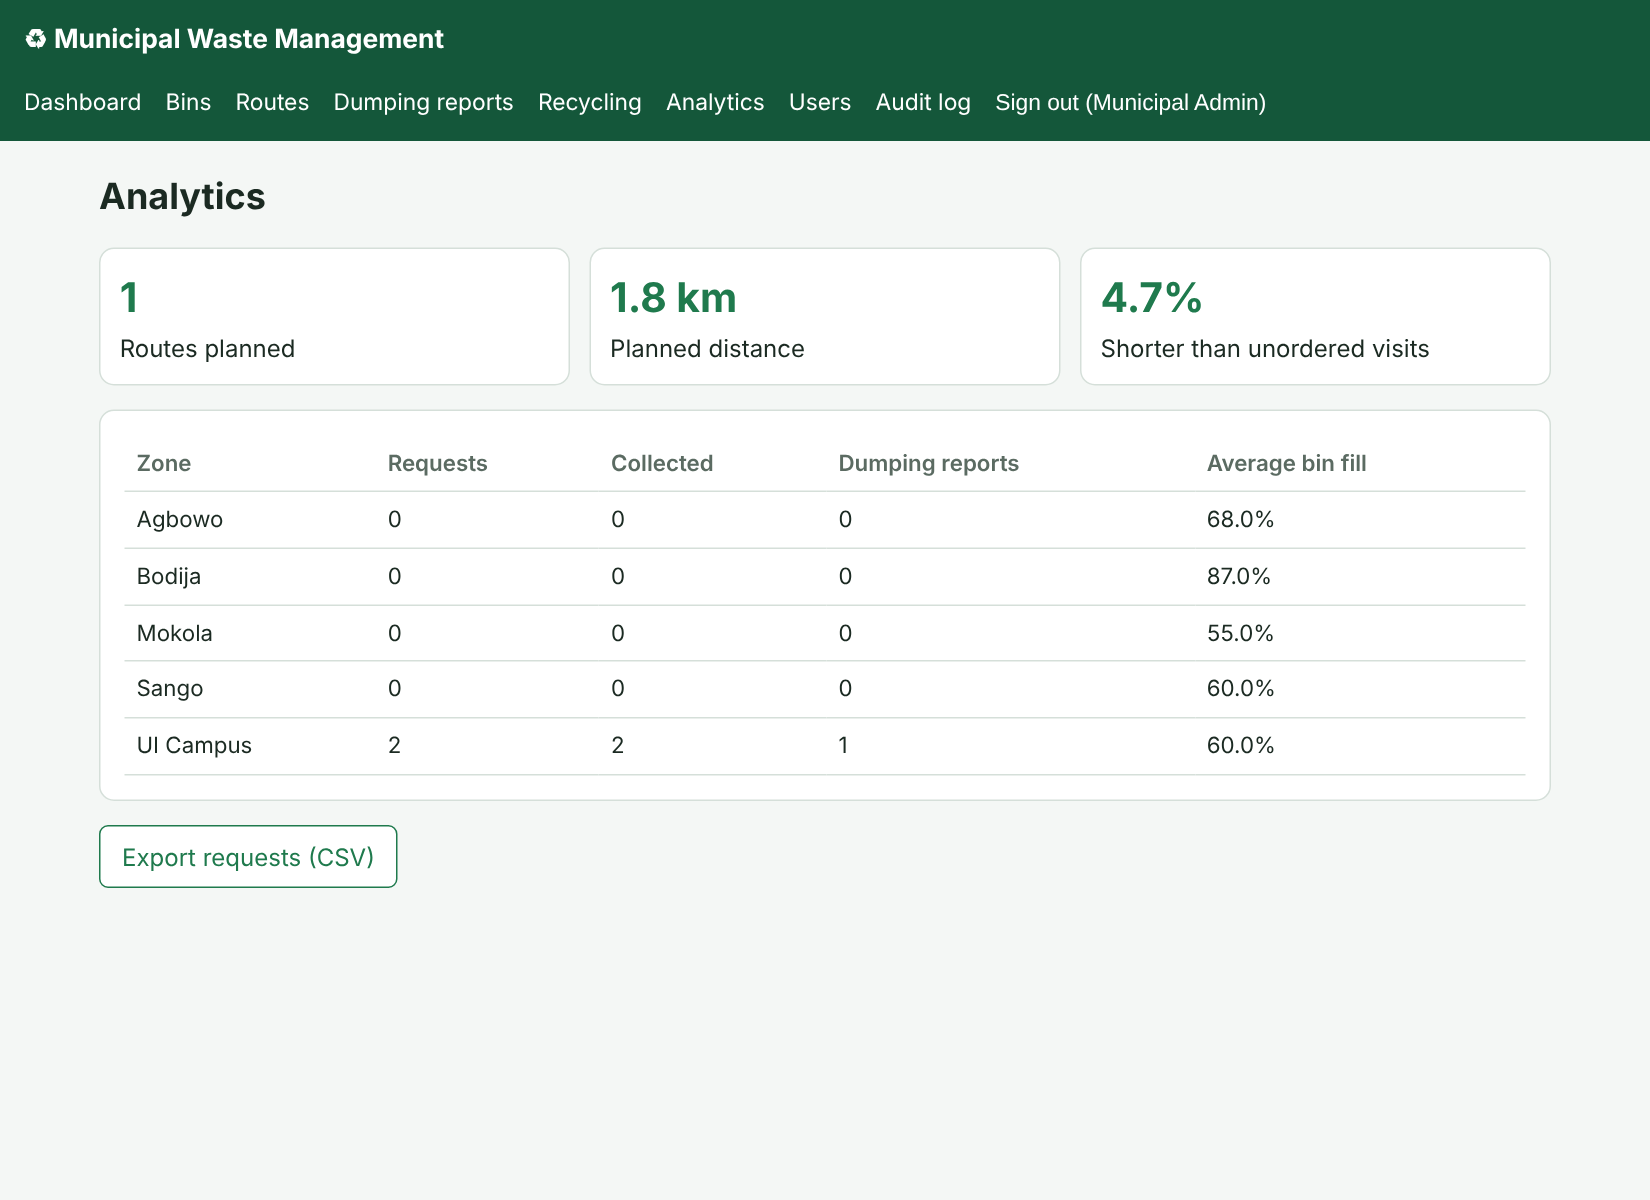
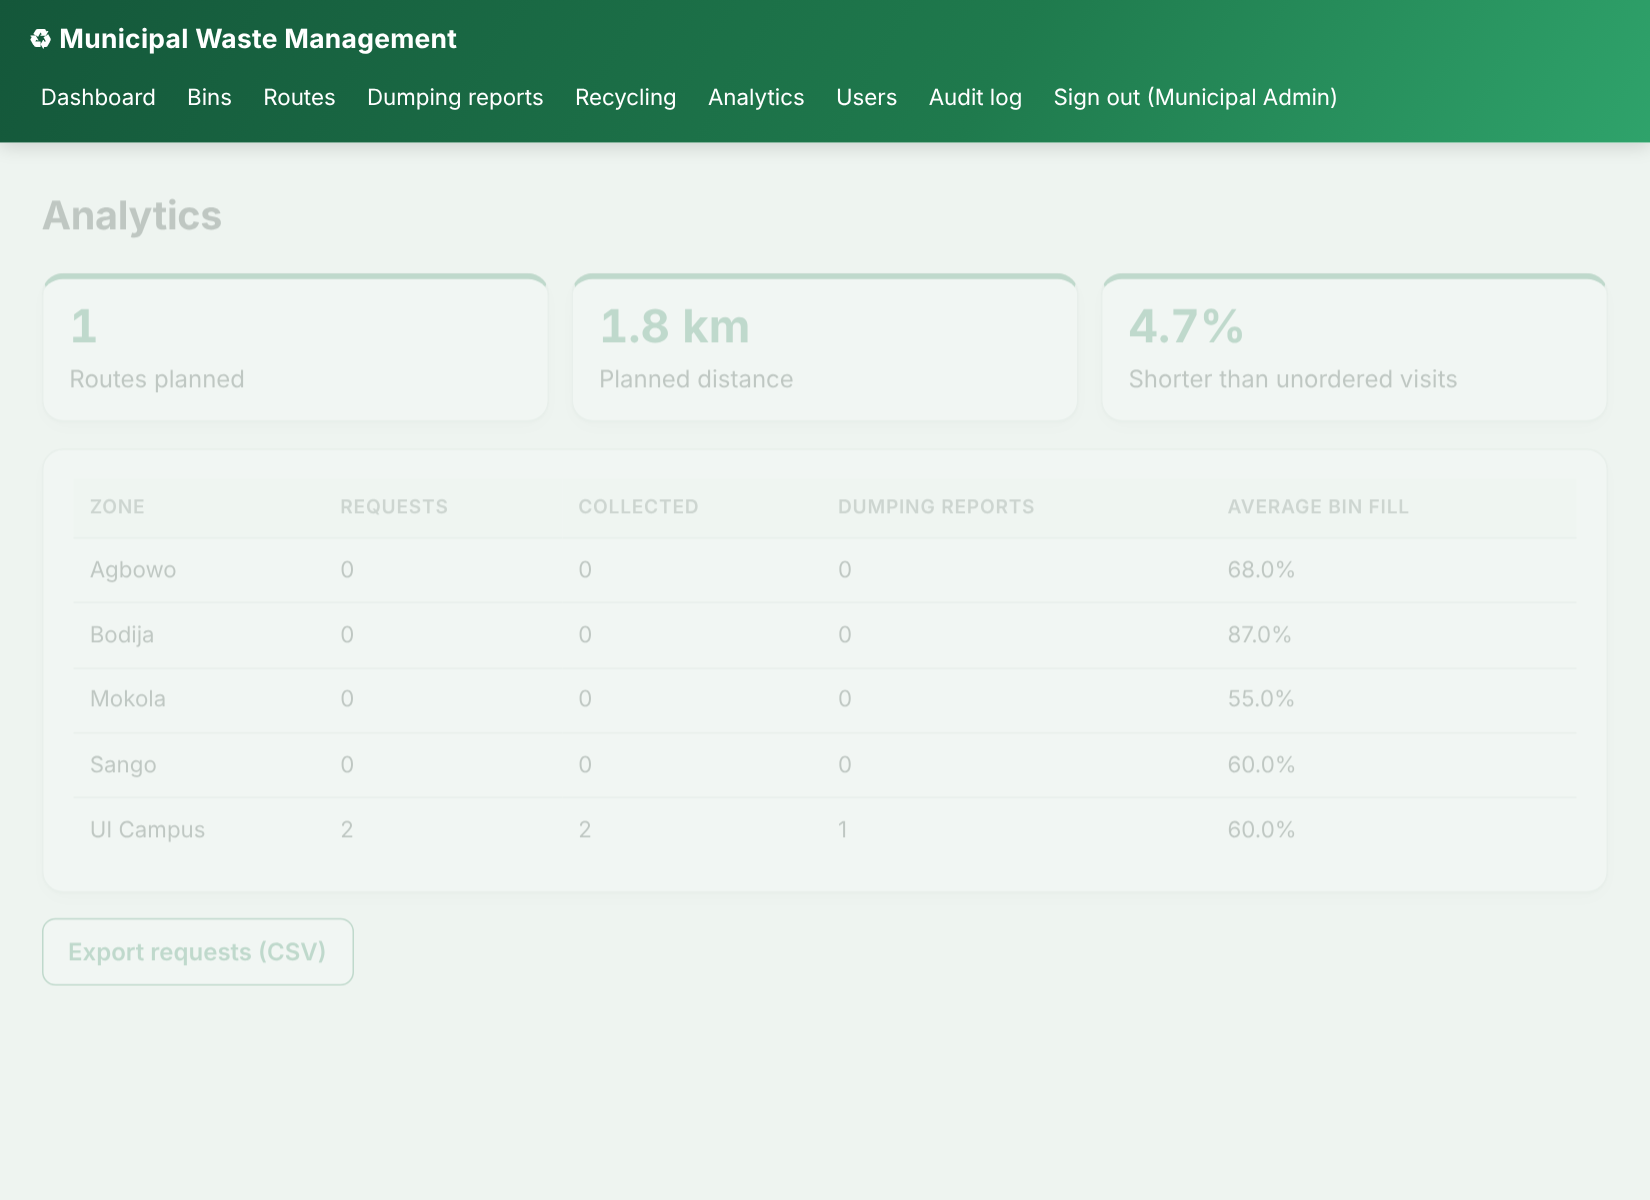
Polish interface: gradient header, card and stat styling, status badges, home hero
Styling only; behaviour and the 35 tests are unchanged.

Claude-Session: https://claude.ai/code/session_01EThMTwLcSrsDZhrohtQ9Sq

diff --git a/wms/static/style.css b/wms/static/style.css
@@ -1,19 +1,53 @@
-:root{--g:#1f7a4d;--gd:#14573a;--bg:#f4f7f5;--tx:#1b2a22;--mu:#5b6b62;--bd:#d5dfd9;--rd:#b3261e;--am:#b26a00}
-*{box-sizing:border-box}body{margin:0;font:16px/1.5 system-ui,Segoe UI,Arial,sans-serif;background:var(--bg);color:var(--tx)}
-header{background:var(--gd);color:#fff;padding:.7rem 1rem;display:flex;flex-wrap:wrap;gap:.6rem 1.2rem;align-items:center}
-header a,header button{color:#fff;text-decoration:none;font-size:.95rem;background:none;border:0;cursor:pointer;padding:.2rem 0}
-header .brand{font-weight:700;font-size:1.1rem;margin-right:auto}header nav{display:flex;flex-wrap:wrap;gap:.2rem 1rem}
-main{max-width:1000px;margin:1.2rem auto;padding:0 1rem}h1{font-size:1.5rem;margin:.2rem 0 1rem}h2{font-size:1.15rem;margin:1.4rem 0 .6rem}
-.card{background:#fff;border:1px solid var(--bd);border-radius:10px;padding:1rem;margin-bottom:1rem;overflow-x:auto}
-.grid{display:grid;grid-template-columns:repeat(auto-fit,minmax(150px,1fr));gap:.8rem;margin-bottom:1rem}
-.stat{background:#fff;border:1px solid var(--bd);border-radius:10px;padding:.8rem}.stat b{display:block;font-size:1.7rem;color:var(--g)}.stat.warn b{color:var(--rd)}
-table{width:100%;border-collapse:collapse;font-size:.93rem}th,td{padding:.45rem .5rem;border-bottom:1px solid var(--bd);text-align:left;vertical-align:middle}th{color:var(--mu);font-weight:600}
-label{display:block;font-weight:600;margin:.6rem 0 .2rem;font-size:.92rem}input,select,textarea{width:100%;padding:.5rem;border:1px solid #aab8b0;border-radius:6px;font:inherit}
-button.btn,.btn{background:var(--g);color:#fff;border:0;border-radius:6px;padding:.5rem .9rem;cursor:pointer;font:inherit;text-decoration:none;display:inline-block}
-.btn.sec{background:#fff;color:var(--g);border:1px solid var(--g)}.btn.red{background:var(--rd)}.btn.sm{padding:.25rem .6rem;font-size:.85rem}
-.flash{padding:.6rem .8rem;border-radius:6px;margin-bottom:.8rem}.flash.ok{background:#dff3e6;color:#14573a}.flash.error{background:#fde7e5;color:var(--rd)}
-.badge{display:inline-block;padding:.1rem .5rem;border-radius:999px;font-size:.78rem;background:#e6efe9;color:var(--gd)}
-.badge.pending,.badge.open,.badge.planned{background:#fff1d6;color:var(--am)}.badge.cancelled{background:#eee;color:#666}.badge.resolved,.badge.collected,.badge.completed{background:#dff3e6;color:var(--gd)}
-meter{width:100%;height:14px}form.inline{display:inline-flex;gap:.3rem;align-items:center}form.inline input{width:90px}
-.two{display:grid;grid-template-columns:1fr 1fr;gap:1rem}@media(max-width:700px){.two{grid-template-columns:1fr}header{flex-direction:column;align-items:flex-start}}
-.muted{color:var(--mu)}.narrow{max-width:420px;margin:0 auto}
+:root{--g:#1f7a4d;--gd:#14573a;--ga:#2fa36b;--bg:#eef4f0;--tx:#1b2a22;--mu:#5b6b62;--bd:#d5dfd9;--rd:#b3261e;--am:#b26a00;--sh:0 1px 2px rgba(20,60,40,.06),0 4px 14px rgba(20,60,40,.07)}
+*{box-sizing:border-box}
+body{margin:0;font:16px/1.55 system-ui,"Segoe UI",Roboto,Arial,sans-serif;background:var(--bg);color:var(--tx);-webkit-font-smoothing:antialiased}
+header{background:linear-gradient(120deg,var(--gd),var(--g) 60%,var(--ga));color:#fff;padding:.8rem 1.2rem;display:flex;flex-wrap:wrap;gap:.6rem 1.2rem;align-items:center;box-shadow:0 2px 12px rgba(0,0,0,.15);position:sticky;top:0;z-index:10}
+header a,header button{color:#fff;text-decoration:none;font-size:.93rem;background:none;border:0;cursor:pointer;padding:.3rem .5rem;border-radius:6px;font:inherit;font-size:.93rem;transition:background .15s}
+header a:hover,header button:hover{background:rgba(255,255,255,.14)}
+header .brand{font-weight:700;font-size:1.1rem;margin-right:auto;padding:0;letter-spacing:.2px}
+header nav{display:flex;flex-wrap:wrap;gap:.2rem .3rem;align-items:center}
+header nav form{margin:0}
+main{max-width:1080px;margin:1.6rem auto;padding:0 1.1rem;animation:fade .3s ease}
+@keyframes fade{from{opacity:0;transform:translateY(4px)}to{opacity:1;transform:none}}
+h1{font-size:1.65rem;margin:.2rem 0 1.1rem;letter-spacing:-.2px}
+h2{font-size:1.1rem;margin:1.5rem 0 .7rem;color:var(--gd)}
+.card{background:#fff;border:1px solid var(--bd);border-radius:14px;padding:1.2rem 1.3rem;margin-bottom:1.1rem;box-shadow:var(--sh);overflow-x:auto;transition:transform .15s,box-shadow .15s}
+.card:hover{box-shadow:0 2px 6px rgba(20,60,40,.08),0 10px 24px rgba(20,60,40,.09)}
+.grid{display:grid;grid-template-columns:repeat(auto-fit,minmax(170px,1fr));gap:.9rem;margin-bottom:1.1rem}
+.stat{background:#fff;border:1px solid var(--bd);border-radius:14px;padding:1rem 1.1rem;box-shadow:var(--sh);border-top:4px solid var(--g)}
+.stat b{display:block;font-size:1.9rem;color:var(--g);line-height:1.1;margin-bottom:.25rem;font-variant-numeric:tabular-nums}
+.stat.warn{border-top-color:var(--rd)}.stat.warn b{color:var(--rd)}
+table{width:100%;border-collapse:separate;border-spacing:0;font-size:.93rem}
+th,td{padding:.6rem .65rem;border-bottom:1px solid var(--bd);text-align:left;vertical-align:middle}
+th{color:var(--mu);font-weight:600;font-size:.8rem;text-transform:uppercase;letter-spacing:.5px;background:#f6faf7}
+tr:last-child td{border-bottom:0}
+tbody tr:hover td,table tr:hover td{background:#f7fbf8}
+label{display:block;font-weight:600;margin:.8rem 0 .3rem;font-size:.9rem;color:#33463c}
+input,select,textarea{width:100%;padding:.55rem .7rem;border:1px solid #b5c4bb;border-radius:9px;font:inherit;background:#fff;transition:border-color .15s,box-shadow .15s}
+input:focus,select:focus,textarea:focus{outline:none;border-color:var(--g);box-shadow:0 0 0 3px rgba(31,122,77,.18)}
+button.btn,.btn{background:linear-gradient(180deg,var(--ga),var(--g));color:#fff;border:0;border-radius:9px;padding:.55rem 1.05rem;cursor:pointer;font:inherit;font-weight:600;text-decoration:none;display:inline-block;box-shadow:0 1px 2px rgba(0,0,0,.12);transition:transform .08s,filter .15s}
+.btn:hover{filter:brightness(1.06)}.btn:active{transform:translateY(1px)}
+.btn.sec{background:#fff;color:var(--g);border:1px solid var(--g);box-shadow:none}.btn.sec:hover{background:#f0f8f3}
+.btn.red{background:linear-gradient(180deg,#cc3a31,var(--rd))}
+.btn.sm{padding:.3rem .65rem;font-size:.83rem;border-radius:7px}
+.flash{padding:.7rem .95rem;border-radius:10px;margin-bottom:.9rem;font-weight:500;border-left:4px solid;box-shadow:var(--sh)}
+.flash.ok{background:#e9f7ef;color:#14573a;border-color:var(--g)}
+.flash.error{background:#fdecea;color:var(--rd);border-color:var(--rd)}
+.badge{display:inline-flex;align-items:center;gap:.3rem;padding:.2rem .65rem;border-radius:999px;font-size:.76rem;font-weight:600;background:#e6efe9;color:var(--gd);text-transform:capitalize;white-space:nowrap}
+.badge::before{content:"";width:6px;height:6px;border-radius:50%;background:currentColor;opacity:.7}
+.badge.pending,.badge.open,.badge.planned{background:#fff3dc;color:var(--am)}
+.badge.scheduled,.badge.investigating,.badge.in_progress{background:#e4eefc;color:#2456a6}
+.badge.cancelled{background:#eeeeee;color:#666}
+.badge.resolved,.badge.collected,.badge.completed{background:#dff3e6;color:var(--gd)}
+meter{width:100%;height:14px;border-radius:999px;overflow:hidden;background:#e6ece8}
+form.inline{display:inline-flex;gap:.4rem;align-items:center;flex-wrap:wrap}
+form.inline input{width:100px}
+.two{display:grid;grid-template-columns:1fr 1fr;gap:1.1rem}
+.muted{color:var(--mu)}
+.narrow{max-width:440px;margin:1.5rem auto}
+.hero{background:linear-gradient(135deg,var(--gd),var(--ga));color:#fff;border-radius:18px;padding:2.2rem 2rem;margin-bottom:1.3rem;box-shadow:var(--sh)}
+.hero h1{color:#fff;font-size:2rem;margin:0 0 .5rem}.hero p{margin:0 0 1.2rem;opacity:.92;max-width:620px}
+.hero .btn.sec{background:rgba(255,255,255,.12);color:#fff;border-color:rgba(255,255,255,.7)}
+.hero .btn{background:#fff;color:var(--gd)}
+@media(max-width:700px){.two{grid-template-columns:1fr}header{flex-direction:column;align-items:flex-start;position:static}main{margin-top:1rem}.hero{padding:1.5rem 1.2rem}.hero h1{font-size:1.5rem}h1{font-size:1.4rem}}
+@media(prefers-reduced-motion:reduce){*{animation:none!important;transition:none!important}}

diff --git a/wms/templates/index.html b/wms/templates/index.html
@@ -1,3 +1,2 @@
-{% extends 'base.html' %}{% block body %}<h1>Cleaner streets, on schedule</h1>
-<div class="card"><p>Request a waste pickup, report illegal dumping and see your zone's collection day. Municipal staff monitor bin levels and plan the shortest collection routes.</p><a class="btn" href="{{ url_for('auth.register') }}">Create an account</a> <a class="btn sec" href="{{ url_for('auth.login') }}">Sign in</a></div>
+{% extends 'base.html' %}{% block body %}<div class="hero"><h1>Cleaner streets, on schedule</h1><p>Request a waste pickup, report illegal dumping and see your zone's collection day. Municipal staff monitor bin levels and plan the shortest collection routes.</p><a class="btn" href="{{ url_for('auth.register') }}">Create an account</a> <a class="btn sec" href="{{ url_for('auth.login') }}">Sign in</a></div>
 <h2>Collection days by zone</h2><div class="card"><table><tr><th>Zone</th><th>Collection day</th><th>Monitored bins</th></tr>{% for z in zones %}<tr><td>{{ z.name }}</td><td>{{ z.collection_day }}</td><td>{{ z.bins }}</td></tr>{% endfor %}</table></div>{% endblock %}
